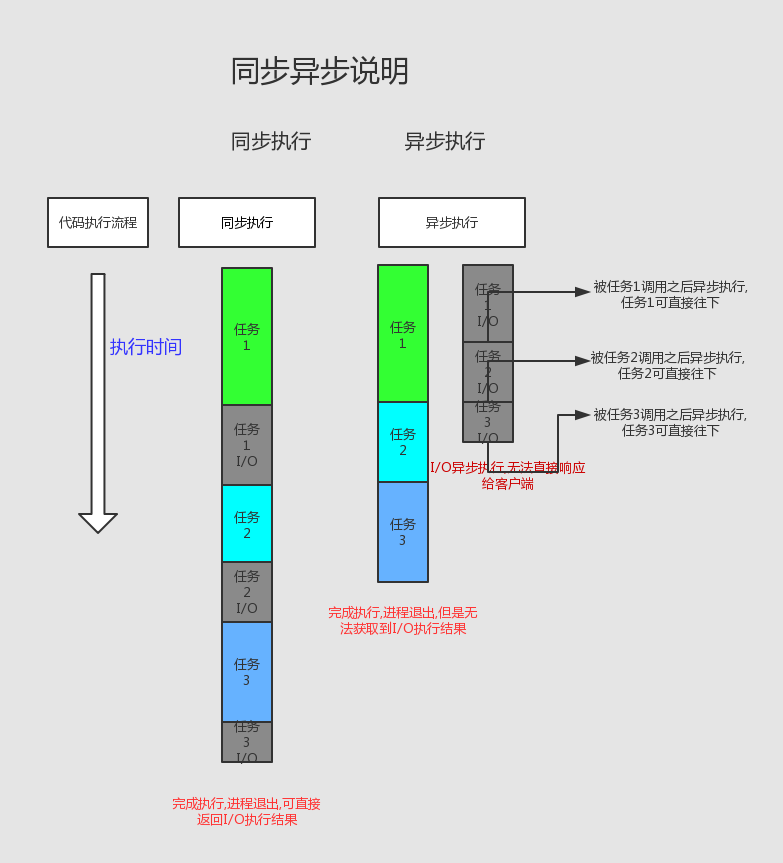
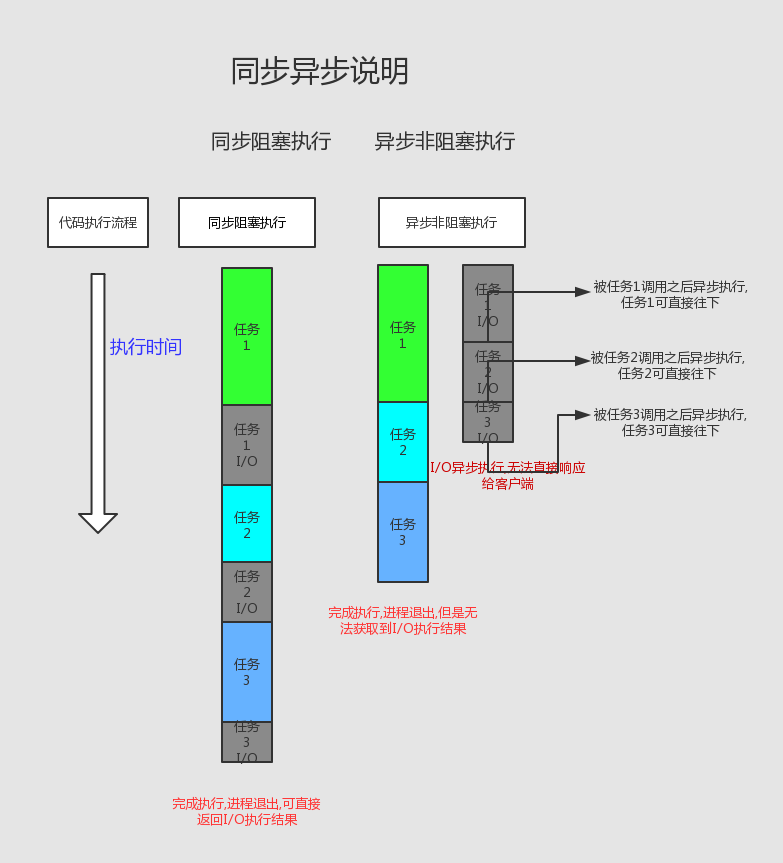
更新同步/异步图

diff --git a/Manual/3.x/Cn/noobCourse/Block.md b/Manual/3.x/Cn/noobCourse/Block.md
@@ -65,3 +65,5 @@ php初级开发者中,很少有非阻塞这个概念存在,但php是有非阻塞
 
 >在这个过程中,店员查询是否有mbp的动作,就属于I/O操作,叫小明回家这个操作,就是非阻塞情况,小明不断打电话,这个就是定时轮询查询,店员不断的回复,这个情况就是非阻塞函数没有返回数据,小明去敲PHP,说明非阻塞情况还能执行其他代码,2天后,店员回来告诉小明有10台,就是非阻塞函数通过轮询出现了结果,并返回了数据,小明买了一台,就是退出了循环继续往下执行了代码
 
+
+![同步异步](Async.png)
